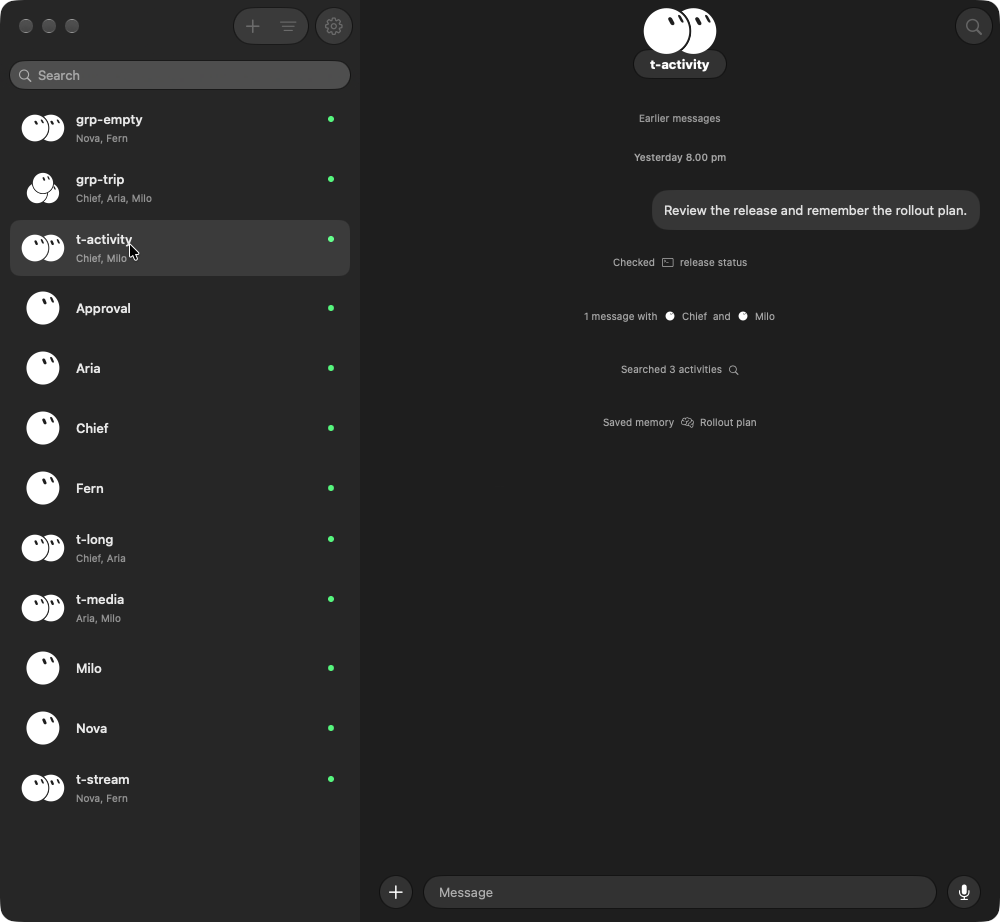
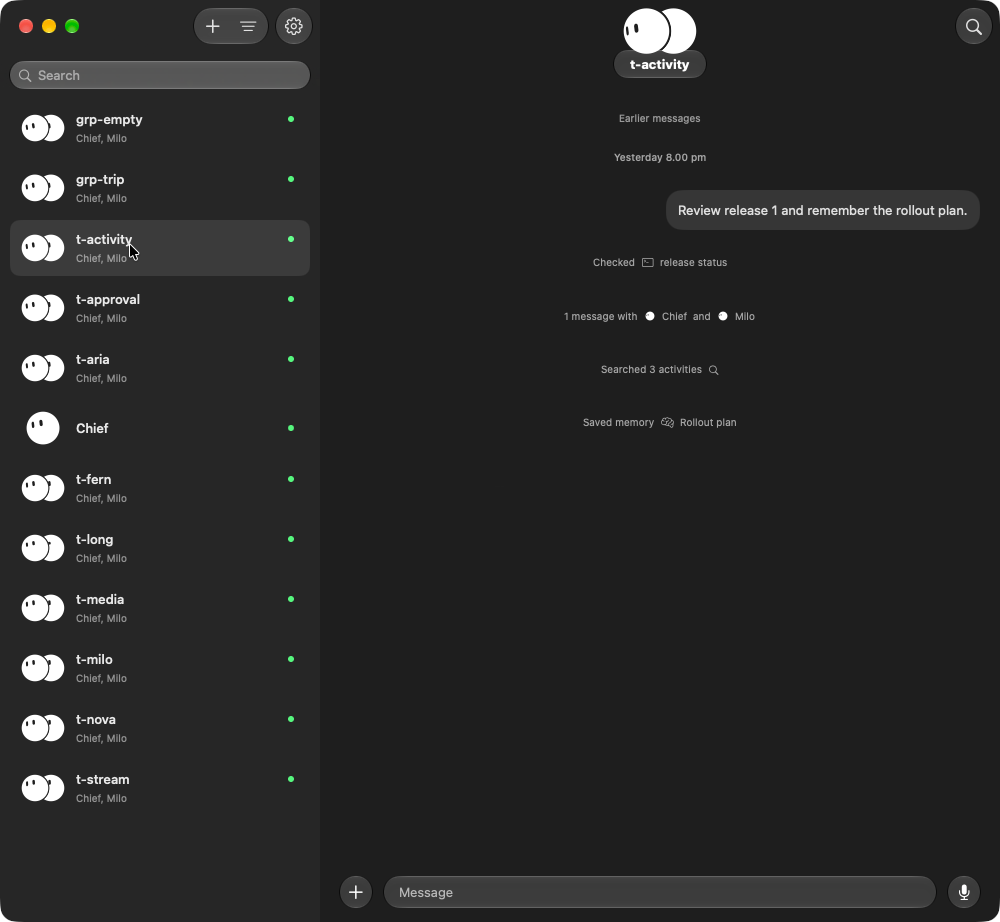
Record verified inline activity captures on macOS and iOS
Verify.sh: PASS, full targets, 204 package tests and both iOS suites. Build the macOS proof in Release through the temporary scheme patch, then restore the scheme.

Lane: lane3/codex

diff --git a/.proof/df2-attempt6b/first-summary.md b/.proof/df2-attempt6b/first-summary.md
@@ -1,0 +1,24 @@
+## verify.sh: FAIL
+commit `b758832` on cvmini, 2026-10-14 00:50:13 +08, worktree lane3-df2-fix-pr-39-ar-at-785d9dd-inli
+targets: full
+level: **failed**, ready (chats.list + 12 sidebar rows + waits): yes
+
+| step | result | tests | time |
+|---|---|---|---|
+| test-integrity | PASS | - | 1s |
+| affected-tests | PASS | - | 1s |
+| go-vet | PASS | - | 2s |
+| go-test | PASS | - | 57s |
+| fixture-off | PASS | - | 2s |
+| packages | PASS | 204 passed, 0 failed | 22s |
+| macos-build | PASS | - | 22s |
+| ios-test | FAIL | 1 passed, 1 failed | 440s |
+| ios-ready | PASS | 2 passed, 0 failed | 44s |
+
+media: ready-11B4DB95-6FE8-4BD4-8150-78BDF857EF18.png ready-187A898D-A7C8-4BDE-BEA8-68E2F63CF0E4.png ready-601573B5-7A83-4580-AD54-82860FC78733.png ready-8A6D05AD-662B-43BF-8DD0-17E7E9B4B677.png ready-97B0BED2-4578-4525-88FA-1DE1A5A3A020.png ready-E256AF31-8145-4395-AC7B-5A9F2B762043.png 
+
+```
+/Users/carlvincetan/code/wt/lane3-df2-fix-pr-39-ar-at-785d9dd-inli/apps/Polymux/PolymuxUITests/ReadinessTests.swift:55: error: -[PolymuxUITests.ReadinessTests testInlineActivity] : failed - readiness wait 'activity.rows.light' timed out
+Test Case '-[PolymuxUITests.ReadinessTests testInlineActivity]' failed (40.001 seconds).
+```
+evidence: /Users/carlvincetan/verify-evidence/lane3-df2-fix-pr-39-ar-at-785d9dd-inli/20261014-005013-b758832

diff --git a/.proof/df2-attempt6b/verify-summary.md b/.proof/df2-attempt6b/verify-summary.md
@@ -1,0 +1,19 @@
+## verify.sh: PASS
+commit `b758832` on cvmini, 2026-10-14 00:56:07 +08, worktree lane3-df2-fix-pr-39-ar-at-785d9dd-inli
+targets: full
+level: **UI-verified**, ready (chats.list + 12 sidebar rows + waits): yes
+
+| step | result | tests | time |
+|---|---|---|---|
+| test-integrity | PASS | - | 1s |
+| affected-tests | PASS | - | 8s |
+| go-vet | PASS | - | 3s |
+| go-test | PASS | - | 61s |
+| fixture-off | PASS | - | 1s |
+| packages | PASS | 204 passed, 0 failed | 9s |
+| macos-build | PASS | - | 38s |
+| ios-test | PASS | 2 passed, 0 failed | 84s |
+| ios-ready | PASS | 2 passed, 0 failed | 90s |
+
+media: ready-04181378-D76C-4B68-894F-248AA1E5FF4B.png ready-3C456376-0B70-4949-B4D6-6F794CCC31A5.png ready-82152E96-586B-4D03-B92F-CD78B63A0181.png ready-AFC42593-AD01-4FF6-B19B-7480FB8A0409.png ready-F0AFC4BC-045F-4C1A-9093-FD8ECA1CD6B6.png ready-FBE631F2-3C1B-4FF5-98EB-40BBA5157284.png 
+evidence: /Users/carlvincetan/verify-evidence/lane3-df2-fix-pr-39-ar-at-785d9dd-inli/20261014-005607-b758832
